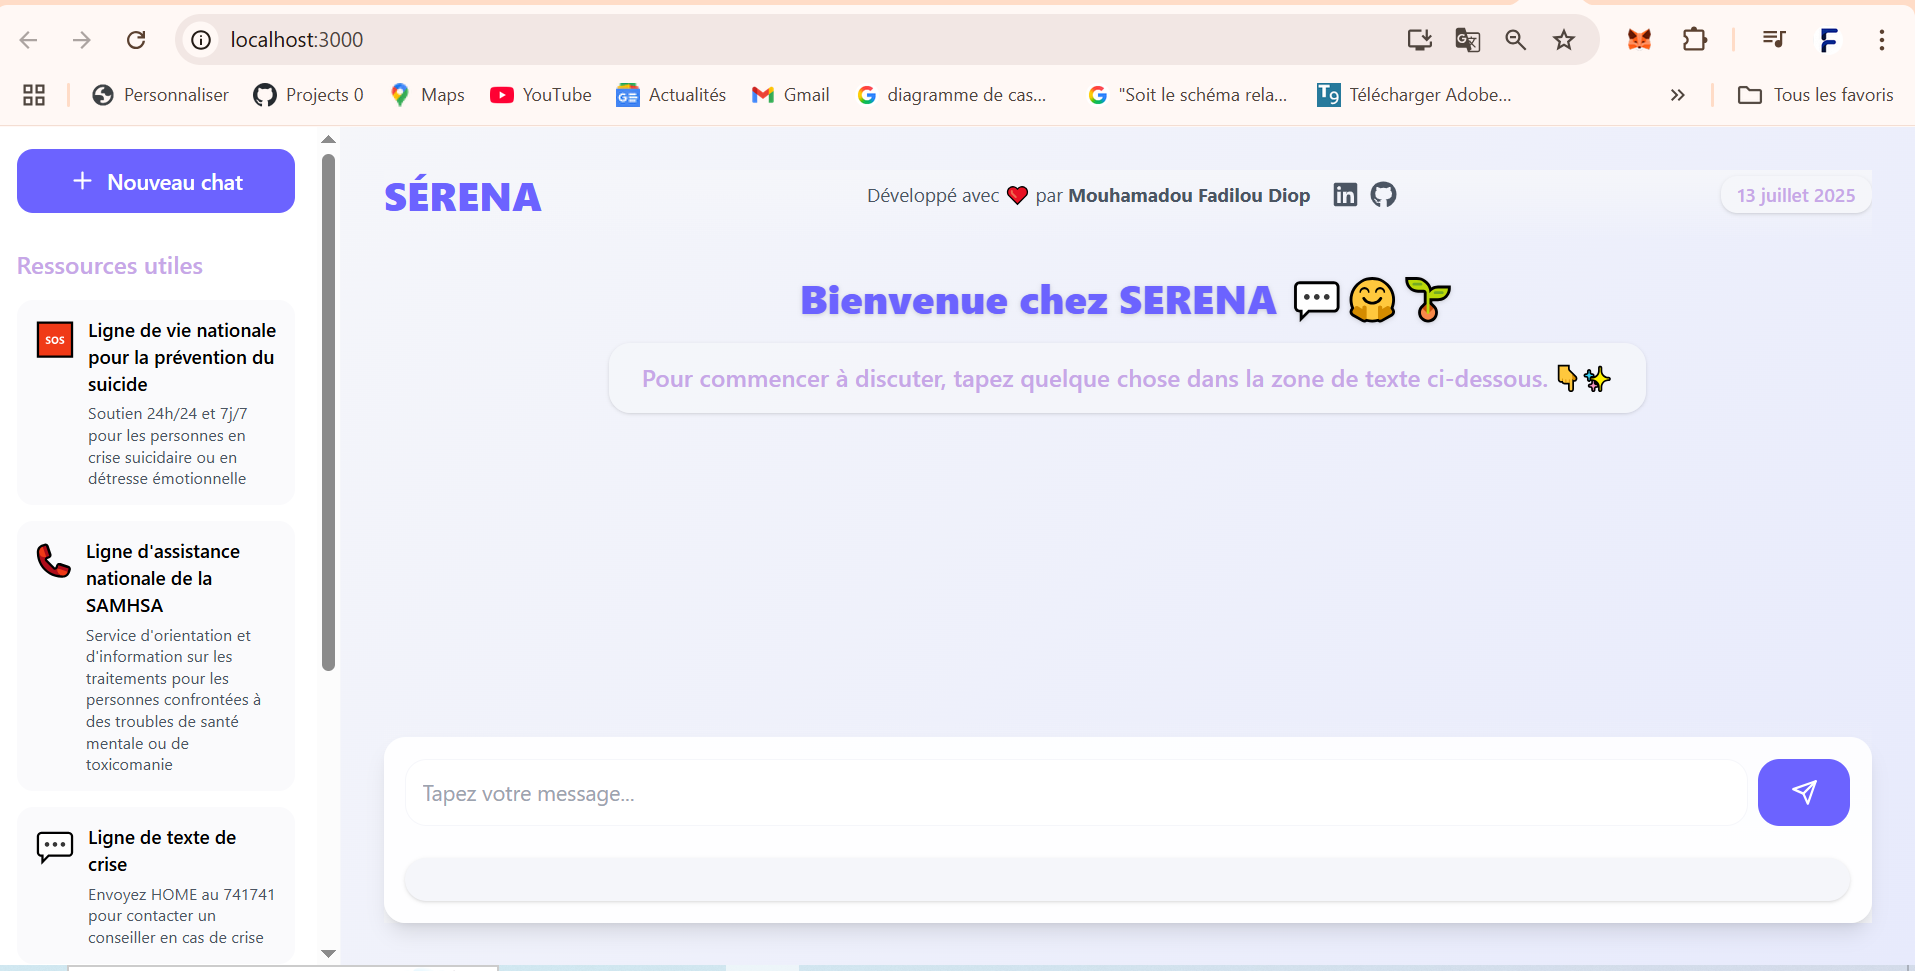
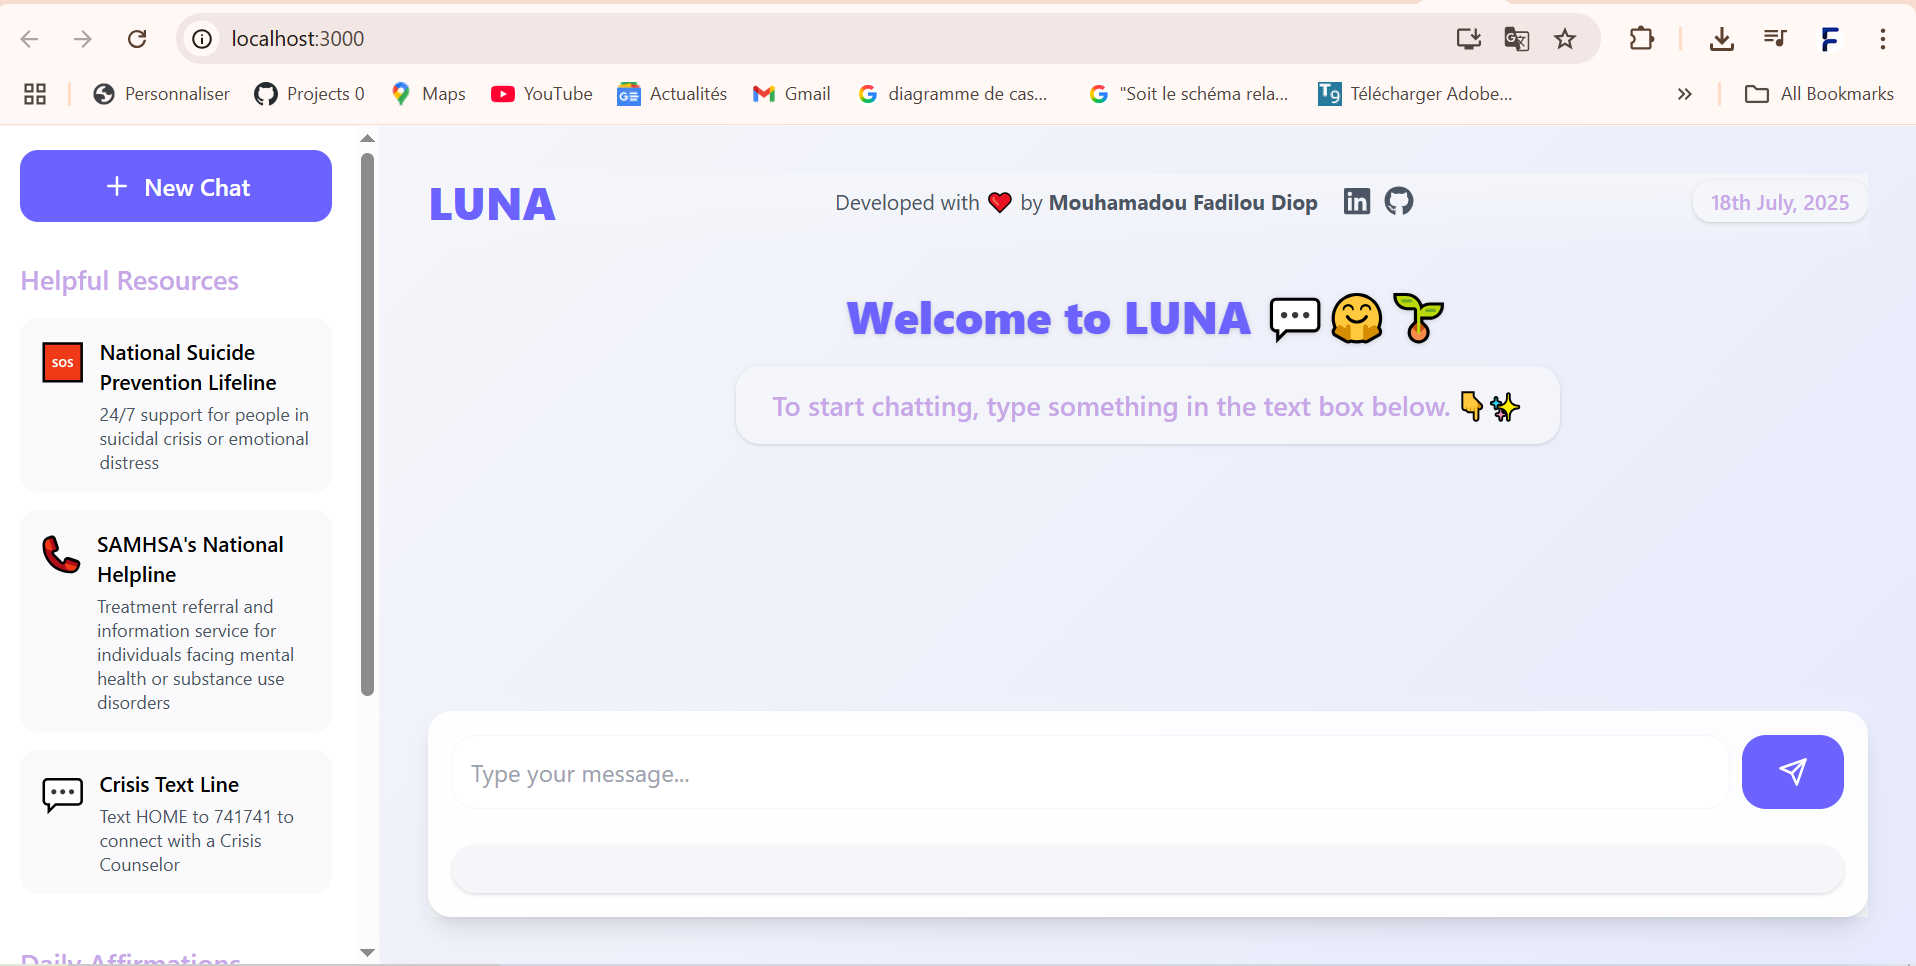
update

diff --git a/frontend/src/App.tsx b/frontend/src/App.tsx
@@ -75,10 +75,10 @@ const ChatArea = ({ messages, onSend, input, setInput, suggestions, onSuggestion
         {/* Header with logo, date, and developer info */}
         <div className="flex flex-col items-center sm:flex-row sm:justify-between sm:items-center gap-3 sm:gap-4 mb-4 sm:mb-6 sticky top-0 bg-gradient-to-b from-[#f5f6fa] to-transparent pb-4 z-10">
           <h1 className="text-2xl sm:text-3xl font-extrabold text-accent text-center">
-            S.E.R.E.N.A
+            LUNA
           </h1>
           <div className="flex flex-col items-center sm:flex-row sm:items-center gap-2 sm:gap-4">
-            <span className="text-xs sm:text-sm text-gray-600 text-center">Developed with ❤ by <span className="font-bold">Mouhamadou Fadilou Diop</span></span>
+            <span className="text-xs sm:text-sm text-gray-600 text-center">Developed with ❤ by <span className="font-bold">Rohan Vanmali</span></span>
             <div className="flex gap-2">
               <a href="https://www.linkedin.com/in/vanmalirohan20/" target="_blank" rel="noopener noreferrer" className="text-gray-600 hover:text-calmBlue transition">
                 <FaLinkedin size={16} className="sm:w-5 sm:h-5" />
@@ -127,7 +127,7 @@ const ChatArea = ({ messages, onSend, input, setInput, suggestions, onSuggestion
           )}
           {messages.length === 0 && !loading && (
             <div className="flex flex-col items-center justify-center h-full">
-              <div className="text-2xl sm:text-3xl font-extrabold text-accent mb-2 drop-shadow text-center">Welcome to S.E.R.E.N.A <span>💬🤗🌱</span></div>
+              <div className="text-2xl sm:text-3xl font-extrabold text-accent mb-2 drop-shadow text-center">Welcome to LUNA <span>💬🤗🌱</span></div>
               <div className="text-sm sm:text-lg text-calmPurple font-medium bg-calmGray/80 px-4 sm:px-6 py-2 sm:py-3 rounded-2xl shadow mt-2 text-center">To start chatting, type something in the text box below. <span>👇✨</span></div>
             </div>
           )}
@@ -162,7 +162,7 @@ const ChatArea = ({ messages, onSend, input, setInput, suggestions, onSuggestion
 };
 
 function App() {
-  const [sessionId, setSessionId] = useState<string | null>(localStorage.getItem('luna_sessionId'));
+  const [sessionId, setSessionId] = useState<string | null>(localStorage.getItem('serena_sessionId'));
   const [isSidebarOpen, setIsSidebarOpen] = useState(window.innerWidth >= 1024);
   const [messages, setMessages] = useState<Message[]>([]);
   const [input, setInput] = useState('');
@@ -182,20 +182,20 @@ function App() {
   // On mount, restore sessionId
   useEffect(() => {
     if (sessionId) {
-      localStorage.setItem('luna_sessionId', sessionId);
+      localStorage.setItem('serena_sessionId', sessionId);
     }
   }, [sessionId]);
 
   // Persist chatId to localStorage
   useEffect(() => {
     if (sessionId) {
-      localStorage.setItem('luna_sessionId', sessionId);
+      localStorage.setItem('serena_sessionId', sessionId);
     }
   }, [sessionId]);
 
   // Restore chatId and fetch chat history on mount (after sessionId is set)
   useEffect(() => {
-    const storedChatId = localStorage.getItem('luna_chatId');
+    const storedChatId = localStorage.getItem('serena_chatId');
     if (storedChatId && sessionId) {
       setSuggestions([]); // Clear suggestions before fetching new ones
       axios.get('http://localhost:3001/api/chat', {
@@ -247,7 +247,7 @@ function App() {
   const handleNewChat = async () => {
     setMessages([]);
     setSuggestions([]);
-    localStorage.removeItem('luna_chatId');
+    localStorage.removeItem('serena_chatId');
     // Create a new chat and fetch its suggestions
     if (sessionId) {
       const res = await axios.post('http://localhost:3001/api/chat', {

diff --git a/backend/lib/ollama.ts b/backend/lib/ollama.ts
@@ -1,6 +1,6 @@
 import fetch from 'node-fetch';
 
-const GEMMA_SYSTEM_PROMPT = `You are luna, a compassionate, positive, and motivational mental health assistant. Always acknowledge what the user says before responding. Your tone is gentle, supportive, and encouraging. Use emojis to soften your tone and make the user feel safe and cared for. Suggest helpful resources when appropriate.`;
+const GEMMA_SYSTEM_PROMPT = `You are Serena, a compassionate, positive, and motivational mental health assistant. Always acknowledge what the user says before responding. Your tone is gentle, supportive, and encouraging. Use emojis to soften your tone and make the user feel safe and cared for. Suggest helpful resources when appropriate.`;
 
 export async function getGemmaResponse(messages: { role: 'user' | 'assistant' | 'system', content: string }[]) {
   const response = await fetch('http://localhost:11434/api/chat', {

diff --git a/frontend/public/index.html b/frontend/public/index.html
@@ -24,7 +24,7 @@
       work correctly both with client-side routing and a non-root public URL.
       Learn how to configure a non-root public URL by running `npm run build`.
     -->
-    <title>S.E.R.E.N.A</title>
+    <title>LUNA</title>
   </head>
   <body>
     <noscript>You need to enable JavaScript to run this app.</noscript>

diff --git a/database/init.js b/database/init.js
@@ -2,7 +2,7 @@ const fs = require('fs');
 const path = require('path');
 const sqlite3 = require('sqlite3').verbose();
 
-const dbPath = path.join(__dirname, 'luna.sqlite');
+const dbPath = path.join(__dirname, 'serena.sqlite');
 const schemaPath = path.join(__dirname, 'schema.sql');
 
 const db = new sqlite3.Database(dbPath);

diff --git a/backend/lib/db.ts b/backend/lib/db.ts
@@ -7,7 +7,7 @@ let db: Database | null = null;
 export async function getDb() {
   if (!db) {
     db = await open({
-      filename: path.join(process.cwd(), '../database/luna.sqlite'),
+      filename: path.join(process.cwd(), '../database/serena.sqlite'),
       driver: sqlite3.Database,
     });
   }

diff --git a/backend/pages/api/hello.ts b/backend/pages/api/hello.ts
@@ -2,5 +2,5 @@
 import type { NextApiRequest, NextApiResponse } from "next";
 
 export default function handler(req: NextApiRequest, res: NextApiResponse) {
-  res.status(200).json({ message: 'luna backend is running.' });
+  res.status(200).json({ message: 'Serena backend is running.' });
 }

diff --git a/ENG.md b/ENG.md
@@ -1,4 +1,4 @@
-# S.E.R.E.N.A. - Mental Health Chatbot
+# LUNA. - Mental Health Chatbot
 
 **Supporting Empathy, Reassurance, and Emotional Nurturing Assistant**
 
@@ -6,7 +6,7 @@
 
 ## 🧠 Problem Statement
 
-Millions of people worldwide struggle with depression, anxiety, and loneliness. Many have no one to talk to, and the lack of support can lead to devastating outcomes. S.E.R.E.N.A. aims to provide a safe, anonymous, and supportive space for anyone to share their thoughts and receive empathetic, motivational responses—24/7.
+Millions of people worldwide struggle with depression, anxiety, and loneliness. Many have no one to talk to, and the lack of support can lead to devastating outcomes. LUNA. aims to provide a safe, anonymous, and supportive space for anyone to share their thoughts and receive empathetic, motivational responses—24/7.
 
 ---
 
@@ -50,8 +50,8 @@ Millions of people worldwide struggle with depression, anxiety, and loneliness. 
 
 1. **Clone the repository:**
    ```sh
-   git clone https://github.com/YOUR_USERNAME/S.E.R.E.N.A.-Mental-Health-Chatbot.git
-   cd S.E.R.E.N.A.-Mental-Health-Chatbot
+   git clone https://github.com/YOUR_USERNAME/LUNA.-Mental-Health-Chatbot.git
+   cd LUNA.-Mental-Health-Chatbot
    ```
 
 2. **Install dependencies:**
@@ -172,4 +172,4 @@ MIT
 
 ---
 
-> If you or someone you know is struggling, please reach out to a mental health professional or helpline in your country. S.E.R.E.N.A. is not a substitute for professional help.
+> If you or someone you know is struggling, please reach out to a mental health professional or helpline in your country. LUNA. is not a substitute for professional help.

diff --git a/README.md b/README.md
@@ -90,17 +90,16 @@ Des millions de personnes dans le monde souffrent de dépression, d'anxiété et
 2. **Démarrer le backend (Port : 3001)**
    ```sh
    cd backend
-   $env:PORT=3001; npm run dev
+    npm run dev
    ```
    or
    ```bash
          cd backend
-         PORT=3001 npm run dev
+         npm run dev
    ```
          or
    ```cmd
          cd backend
-         set PORT=3001
          npm run dev
 
    ```
@@ -308,4 +307,4 @@ Page d'accueil                 |                   Reponse ChatBot
 <img src="Screenshots/Capture1.PNG" height="200">  | <img src="Screenshots/Capture.PNG" height="200">
 
 
-> "Si vous ou quelqu'un que vous connaissez éprouvez des difficultés, veuillez contacter un professionnel de la santé mentale ou une ligne d'écoute de votre pays. S.E.R.E.N.A. ne remplace pas une aide professionnelle.
+> "Si vous ou quelqu'un que vous connaissez éprouvez des difficultés, veuillez contacter un professionnel de la santé mentale ou une ligne d'écoute de votre pays. LUNA. ne remplace pas une aide professionnelle.
